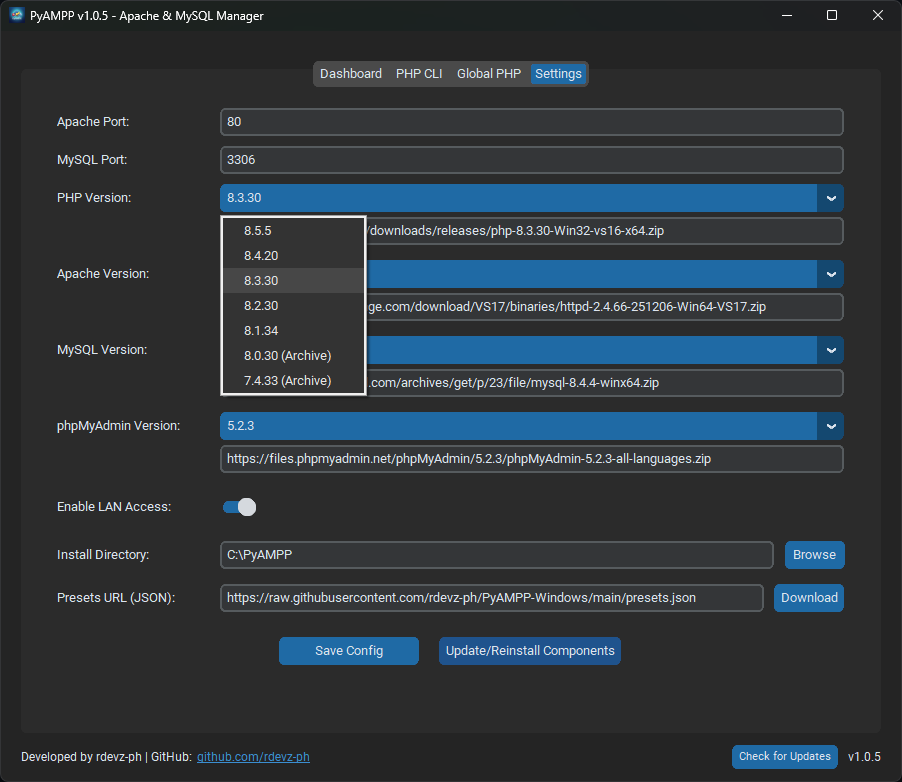
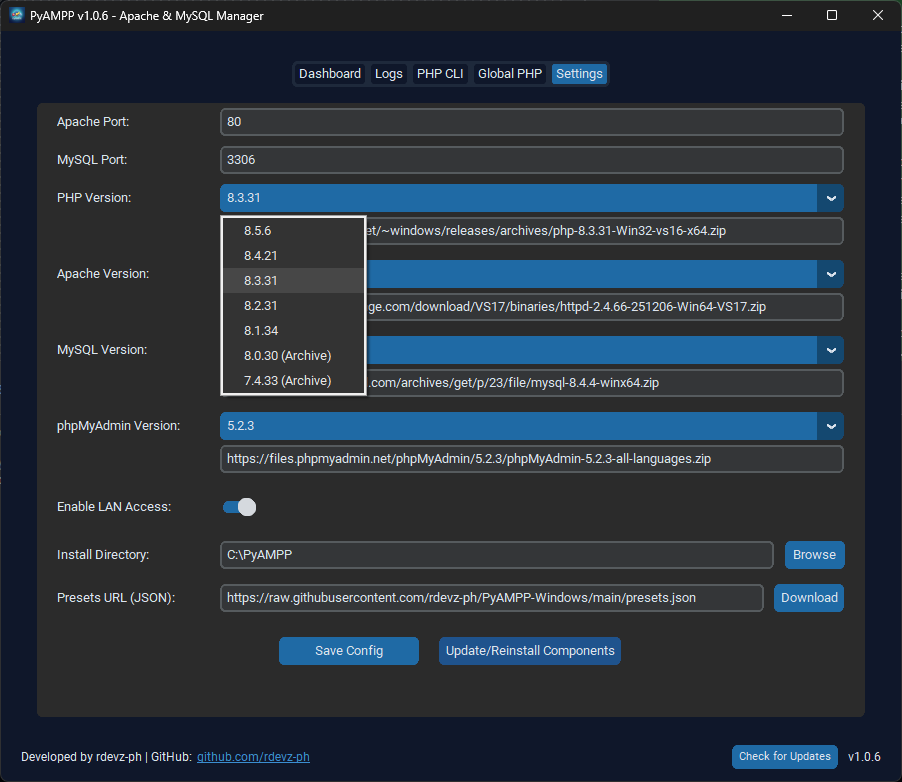
chore: bump version to v1.0.6 and update component presets
- Update application version to v1.0.6 in README, index.html, and presets.json.
- Update supported PHP versions list (8.5.6) and MySQL presets.
- Update CHANGELOG.md with v1.0.6 feature highlights (Card-based Dashboard, Metrics).
- Update dashboard screenshots to reflect the new UI.

Changed region(s): [[0.0, 0.0, 1.0, 0.9514], [0.4035, 0.2762, 0.8071, 0.3069]]

diff --git a/docs/index.html b/docs/index.html
@@ -124,10 +124,10 @@
 
             <section id="presets">
                 <h2>Supported Versions (Presets)</h2>
-                <p>PyAMPP v1.0.5 supports a wide range of verified component versions out of the box. For transparency, all official binary download URLs are documented in the <code>presets.json</code> file within the repository.</p>
+                <p>PyAMPP v1.0.6 supports a wide range of verified component versions out of the box. For transparency, all official binary download URLs are documented in the <code>presets.json</code> file within the repository.</p>
                 <div class="preset-container">
                     <ul>
-                        <li><strong>PHP:</strong> 8.5.5 (VS17), 8.4.20, 8.3.30, 8.2.30, 8.1.34, 8.0.30, 7.4.33</li>
+                        <li><strong>PHP:</strong> 8.5.6 (VS17), 8.4.21, 8.3.31, 8.2.31, 8.1.34, 8.0.30 (Archive), 7.4.33 (Archive)</li>
                         <li><strong>Apache:</strong> 2.4.66 (VS17)</li>
                         <li><strong>MySQL:</strong> 8.4.4 (LTS), 8.0.40, 5.7.44</li>
                         <li><strong>phpMyAdmin:</strong> 5.2.3, 5.2.2, 5.2.1</li>

diff --git a/CHANGELOG.md b/CHANGELOG.md
@@ -2,6 +2,18 @@
 
 All notable changes to PyAMPP will be documented in this file.
 
+## [1.0.6] - 2026-05-27
+### Added
+* **Premium Card-Based Dashboard**: Revamped the row-based environment control panel into a high-end, visual control center with unified Slate 900 backgrounds and custom card frames.
+* **Process-Level Resource Metrics**: Real-time tracking of PID, CPU utilization %, and RAM memory consumption (MB) dynamically aggregated for both Apache and MySQL servers.
+* **System-Wide Health Monitor**: Dashboard cards displaying real-time System CPU, System RAM, and drive Disk Space usage with sleek progress-indicator bars.
+* **Config Shortcuts**: One-click edit buttons inside the cards to instantly open `httpd.conf`, `my.ini`, or `php.ini` in the default text editor.
+* **Dedicated Logs Tab**: Created a dedicated tab for logs, freeing up 250px of vertical space and enabling fully responsive dashboard auto-scaling in minimized/compact windows.
+
+### Changed
+* **Preset Overwrite Logic**: Remote preset downloads now completely overwrite the local cache instead of merging, ensuring removed or dead links are cleanly purged from selection dropdowns.
+* **Latest Default Presets**: Upgraded default configuration fallback URLs to point to working PHP 8.5.6 and MySQL 8.4.4 LTS releases, resolving old dead URLs.
+
 ## [1.0.5] - 2026-04-27
 ### Added
 * **PHP 8.5.5 Support**: Added support for the latest PHP 8.5.5 presets in the Setup Wizard and configuration engine.

diff --git a/README.md b/README.md
@@ -45,9 +45,9 @@ The latest stable version of PyAMPP can be downloaded from the official [Release
 
 ## Supported Versions (Presets)
 
-PyAMPP v1.0.5 supports a wide range of verified component versions. For full transparency, you can verify all official binary download URLs in the [presets.json](presets.json) file:
+PyAMPP v1.0.6 supports a wide range of verified component versions. For full transparency, you can verify all official binary download URLs in the [presets.json](presets.json) file:
 
-- **PHP:** 8.5.5 (VS17), 8.4.20, 8.3.30, 8.2.30, 8.1.34, 8.0.30, and 7.4.33 (Archive).
+- **PHP:** 8.5.6 (VS17), 8.4.21, 8.3.31, 8.2.31, 8.1.34, 8.0.30 (Archive), and 7.4.33 (Archive).
 - **Apache:** 2.4.66 (VS17).
 - **MySQL:** 8.4.4 (LTS), 8.0.40, 5.7.44.
 - **phpMyAdmin:** 5.2.3, 5.2.2, 5.2.1.
